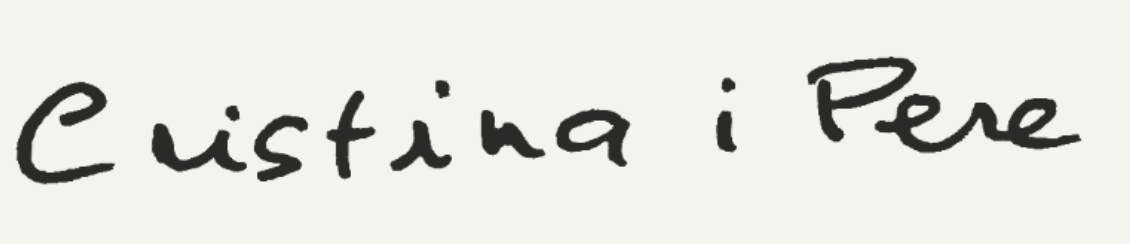
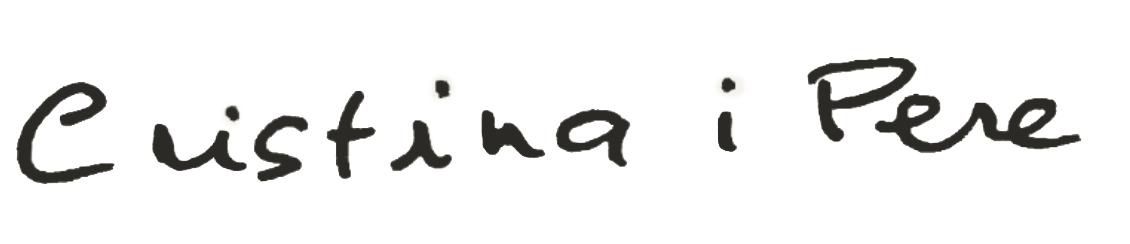
Add burger menu on phones
Full-screen menu behind a two-line burger, small logo top-left on inner
pages, and top drawings adjusted to clear the header row.

diff --git a/css/style.css b/css/style.css
@@ -243,7 +243,6 @@ a { color: inherit; }
 
 @media (max-width: 720px) {
   body { font-size: 1.1rem; }
-  .nav { flex-direction: column; align-items: center; gap: 0.55rem; font-size: 0.85rem; padding-top: 2rem; }
   .hero { padding-top: 5vh; }
   .footer { padding-bottom: 60vw; }
   .schedule li { grid-template-columns: 1fr; gap: 0.25rem; }
@@ -403,8 +402,8 @@ html.locked body > :not(.gate) { visibility: hidden; }
   }
 
   /* all six drawings, sized and placed like the mockup */
-  .flora .f-1 { --w: 27vw; top: -5vw;  left: -4vw; }
-  .flora .f-3 { --w: 24vw; top: -2vw;  right: -5vw; }
+  .flora .f-1 { --w: 27vw; top: -5vw;  left: -9vw; }
+  .flora .f-3 { --w: 24vw; top: 12vw;  right: -5vw; }
   .flora .f-4 { --w: 18vw; top: 88vw;  left: -3vw;  display: block; }
   .flora .f-5 { --w: 16vw; top: 100vw; right: -2vw; display: block; }
   .flora .f-2 { --w: 34vw; left: 26%;  bottom: -5vw; }
@@ -414,5 +413,70 @@ html.locked body > :not(.gate) { visibility: hidden; }
 /* inner pages on phones: text runs full width, so the two mid-page drawings would sit under it */
 @media (max-width: 720px) {
   .flora--inner .f-4, .flora--inner .f-5 { display: none; }
-  .flora .f-1 { left: -6vw; }
+}
+
+/* ---------- Burger menu (phones) ---------- */
+.burger, .brand { display: none; }
+
+@media (max-width: 720px) {
+  .brand {
+    display: block;
+    position: absolute;
+    top: 1.35rem;
+    left: 1.25rem;
+    width: 120px;
+    z-index: 20;
+  }
+  .brand img { width: 100%; }
+
+  .burger {
+    display: block;
+    position: fixed;
+    top: 1.1rem;
+    right: 1rem;
+    z-index: 40;
+    width: 44px;
+    height: 44px;
+    padding: 0;
+    border: 0;
+    background: transparent;
+    cursor: pointer;
+    -webkit-tap-highlight-color: transparent;
+  }
+  .burger span {
+    position: absolute;
+    left: 8px;
+    right: 8px;
+    height: 1.5px;
+    background: var(--ink);
+    transition: transform 0.3s, top 0.3s;
+  }
+  .burger span:first-child { top: 17px; }
+  .burger span:last-child  { top: 26px; }
+  .burger[aria-expanded="true"] span:first-child { top: 21.5px; transform: rotate(45deg); }
+  .burger[aria-expanded="true"] span:last-child  { top: 21.5px; transform: rotate(-45deg); }
+
+  /* the nav becomes a full-screen sheet */
+  .nav {
+    position: fixed;
+    inset: 0;
+    z-index: 30;
+    flex-direction: column;
+    align-items: center;
+    justify-content: center;
+    gap: 1.6rem;
+    padding: 0;
+    font-size: 1rem;
+    letter-spacing: 0.25em;
+    background: var(--bg);
+    opacity: 0;
+    visibility: hidden;
+    transition: opacity 0.3s, visibility 0.3s;
+  }
+  .nav.is-open { opacity: 1; visibility: visible; }
+  html.menu-open { overflow: hidden; }
+
+  /* the menu is out of flow now, so the content needs the top room back */
+  .hero { padding-top: 5.5rem; }
+  .page { padding-top: 5.5rem; }
 }

diff --git a/lloc.html b/lloc.html
@@ -18,6 +18,7 @@
   <link href="https://fonts.googleapis.com/css2?family=Space+Mono&family=EB+Garamond:ital,wght@0,400;0,500;1,400&family=Homemade+Apple&display=swap" rel="stylesheet">
   <link rel="stylesheet" href="css/style.css">
   <script src="js/gate.js"></script>
+  <script src="js/nav.js" defer></script>
 </head>
 <body>
 
@@ -30,7 +31,14 @@
     <img class="f-6" src="media/6d.jpg" alt="">
   </div>
 
-  <nav class="nav" aria-label="Principal">
+  <a class="brand" href="index.html" aria-label="Inici">
+    <img src="media/cptitle.png" alt="Cristina i Pere">
+  </a>
+  <button class="burger" type="button" aria-label="Menú" aria-expanded="false" aria-controls="nav">
+    <span></span><span></span>
+  </button>
+
+  <nav class="nav" id="nav" aria-label="Principal">
     <a href="index.html">Inici</a>
     <a href="programa.html">Programa</a>
     <a href="lloc.html" aria-current="page">Lloc</a>

diff --git a/programa.html b/programa.html
@@ -18,6 +18,7 @@
   <link href="https://fonts.googleapis.com/css2?family=Space+Mono&family=EB+Garamond:ital,wght@0,400;0,500;1,400&family=Homemade+Apple&display=swap" rel="stylesheet">
   <link rel="stylesheet" href="css/style.css">
   <script src="js/gate.js"></script>
+  <script src="js/nav.js" defer></script>
 </head>
 <body>
 
@@ -30,7 +31,14 @@
     <img class="f-6" src="media/6d.jpg" alt="">
   </div>
 
-  <nav class="nav" aria-label="Principal">
+  <a class="brand" href="index.html" aria-label="Inici">
+    <img src="media/cptitle.png" alt="Cristina i Pere">
+  </a>
+  <button class="burger" type="button" aria-label="Menú" aria-expanded="false" aria-controls="nav">
+    <span></span><span></span>
+  </button>
+
+  <nav class="nav" id="nav" aria-label="Principal">
     <a href="index.html">Inici</a>
     <a href="programa.html" aria-current="page">Programa</a>
     <a href="lloc.html">Lloc</a>

diff --git a/confirmacio.html b/confirmacio.html
@@ -18,6 +18,7 @@
   <link href="https://fonts.googleapis.com/css2?family=Space+Mono&family=EB+Garamond:ital,wght@0,400;0,500;1,400&family=Homemade+Apple&display=swap" rel="stylesheet">
   <link rel="stylesheet" href="css/style.css">
   <script src="js/gate.js"></script>
+  <script src="js/nav.js" defer></script>
 </head>
 <body>
 
@@ -30,7 +31,14 @@
     <img class="f-6" src="media/6d.jpg" alt="">
   </div>
 
-  <nav class="nav" aria-label="Principal">
+  <a class="brand" href="index.html" aria-label="Inici">
+    <img src="media/cptitle.png" alt="Cristina i Pere">
+  </a>
+  <button class="burger" type="button" aria-label="Menú" aria-expanded="false" aria-controls="nav">
+    <span></span><span></span>
+  </button>
+
+  <nav class="nav" id="nav" aria-label="Principal">
     <a href="index.html">Inici</a>
     <a href="programa.html">Programa</a>
     <a href="lloc.html">Lloc</a>

diff --git a/preguntes.html b/preguntes.html
@@ -18,6 +18,7 @@
   <link href="https://fonts.googleapis.com/css2?family=Space+Mono&family=EB+Garamond:ital,wght@0,400;0,500;1,400&family=Homemade+Apple&display=swap" rel="stylesheet">
   <link rel="stylesheet" href="css/style.css">
   <script src="js/gate.js"></script>
+  <script src="js/nav.js" defer></script>
 </head>
 <body>
 
@@ -30,7 +31,14 @@
     <img class="f-6" src="media/6d.jpg" alt="">
   </div>
 
-  <nav class="nav" aria-label="Principal">
+  <a class="brand" href="index.html" aria-label="Inici">
+    <img src="media/cptitle.png" alt="Cristina i Pere">
+  </a>
+  <button class="burger" type="button" aria-label="Menú" aria-expanded="false" aria-controls="nav">
+    <span></span><span></span>
+  </button>
+
+  <nav class="nav" id="nav" aria-label="Principal">
     <a href="index.html">Inici</a>
     <a href="programa.html">Programa</a>
     <a href="lloc.html">Lloc</a>

diff --git a/js/nav.js b/js/nav.js
@@ -1,0 +1,22 @@
+/* Mobile burger: toggles the full-screen menu (see the phone rules in css/style.css). */
+(function () {
+  var btn = document.querySelector('.burger');
+  var nav = document.getElementById('nav');
+  if (!btn || !nav) return;
+
+  function setOpen(open) {
+    btn.setAttribute('aria-expanded', open ? 'true' : 'false');
+    nav.classList.toggle('is-open', open);
+    document.documentElement.classList.toggle('menu-open', open);
+  }
+  btn.addEventListener('click', function () {
+    setOpen(btn.getAttribute('aria-expanded') !== 'true');
+  });
+  document.addEventListener('keydown', function (e) {
+    if (e.key === 'Escape') setOpen(false);
+  });
+  // closing when the viewport grows past the phone breakpoint keeps state sane
+  window.matchMedia('(min-width: 721px)').addEventListener('change', function (e) {
+    if (e.matches) setOpen(false);
+  });
+})();

diff --git a/index.html b/index.html
@@ -20,6 +20,7 @@
   <link href="https://fonts.googleapis.com/css2?family=Space+Mono&family=EB+Garamond:ital,wght@0,400;0,500;1,400&family=Homemade+Apple&display=swap" rel="stylesheet">
   <link rel="stylesheet" href="css/style.css">
   <script src="js/gate.js"></script>
+  <script src="js/nav.js" defer></script>
 </head>
 <body>
 
@@ -32,7 +33,11 @@
     <img class="f-6" src="media/6d.jpg" alt="">
   </div>
 
-  <nav class="nav" aria-label="Principal">
+  <button class="burger" type="button" aria-label="Menú" aria-expanded="false" aria-controls="nav">
+    <span></span><span></span>
+  </button>
+
+  <nav class="nav" id="nav" aria-label="Principal">
     <a href="index.html" aria-current="page">Inici</a>
     <a href="programa.html">Programa</a>
     <a href="lloc.html">Lloc</a>

diff --git a/index2.html b/index2.html
@@ -19,6 +19,7 @@
   <link href="https://fonts.googleapis.com/css2?family=Space+Mono&family=EB+Garamond:ital,wght@0,400;0,500;1,400&family=Homemade+Apple&display=swap" rel="stylesheet">
   <link rel="stylesheet" href="css/style.css">
   <script src="js/gate.js"></script>
+  <script src="js/nav.js" defer></script>
 </head>
 <body>
 
@@ -31,7 +32,11 @@
     <img class="f-6" src="media/6d.jpg" alt="">
   </div>
 
-  <nav class="nav" aria-label="Principal">
+  <button class="burger" type="button" aria-label="Menú" aria-expanded="false" aria-controls="nav">
+    <span></span><span></span>
+  </button>
+
+  <nav class="nav" id="nav" aria-label="Principal">
     <a href="index.html" aria-current="page">Inici</a>
     <a href="programa.html">Programa</a>
     <a href="lloc.html">Lloc</a>
